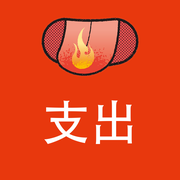
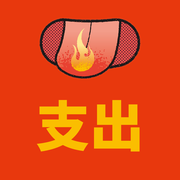
桌面圖示改用與庫存系統一致的視覺語言
品牌圖徽在上、品牌金 #FABE00 粗體文字在下（Noto Sans CJK TC Black），
底色區分系統：庫存＝深綠、現金收支＝品牌紅。
sw.js v7 讓已加到主畫面的裝置重抓圖示。

Changed region(s): [[0.1944, 0.5556, 0.7778, 0.8611], [0.1944, 0.0833, 0.7778, 0.4444]]

diff --git a/sw.js b/sw.js
@@ -9,7 +9,7 @@
  *
  * 改版時把 VERSION 加一，舊快取會在啟用時全部清掉。
  */
-var VERSION = 'cashbook-v6';
+var VERSION = 'cashbook-v7';
 var ASSETS = [
   './', './index.html', './manifest.json',
   './css/base.css',
